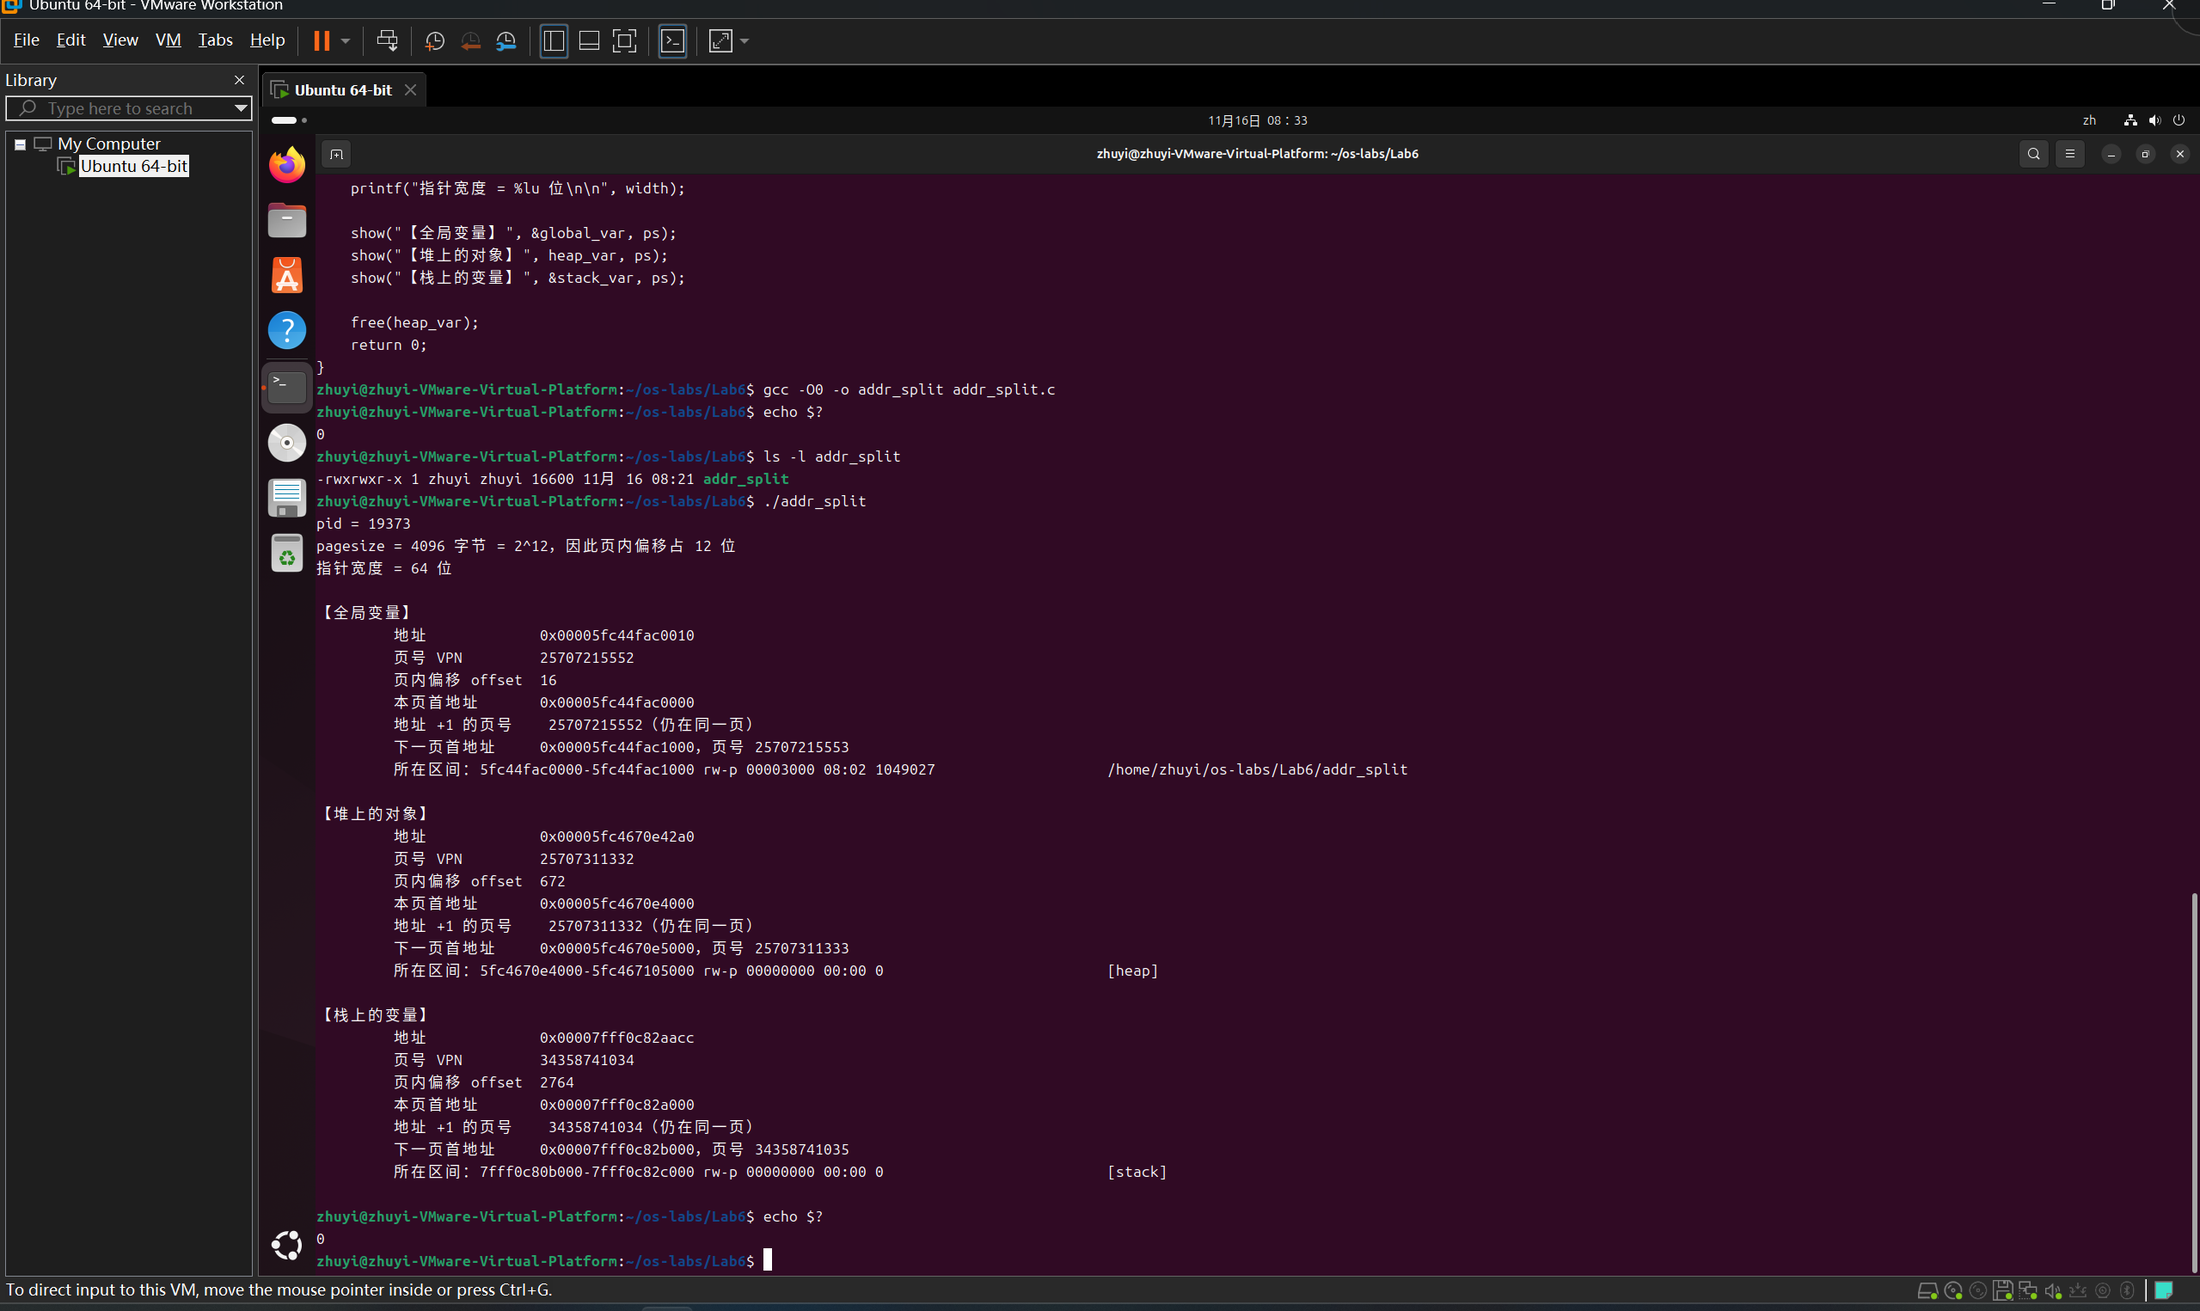
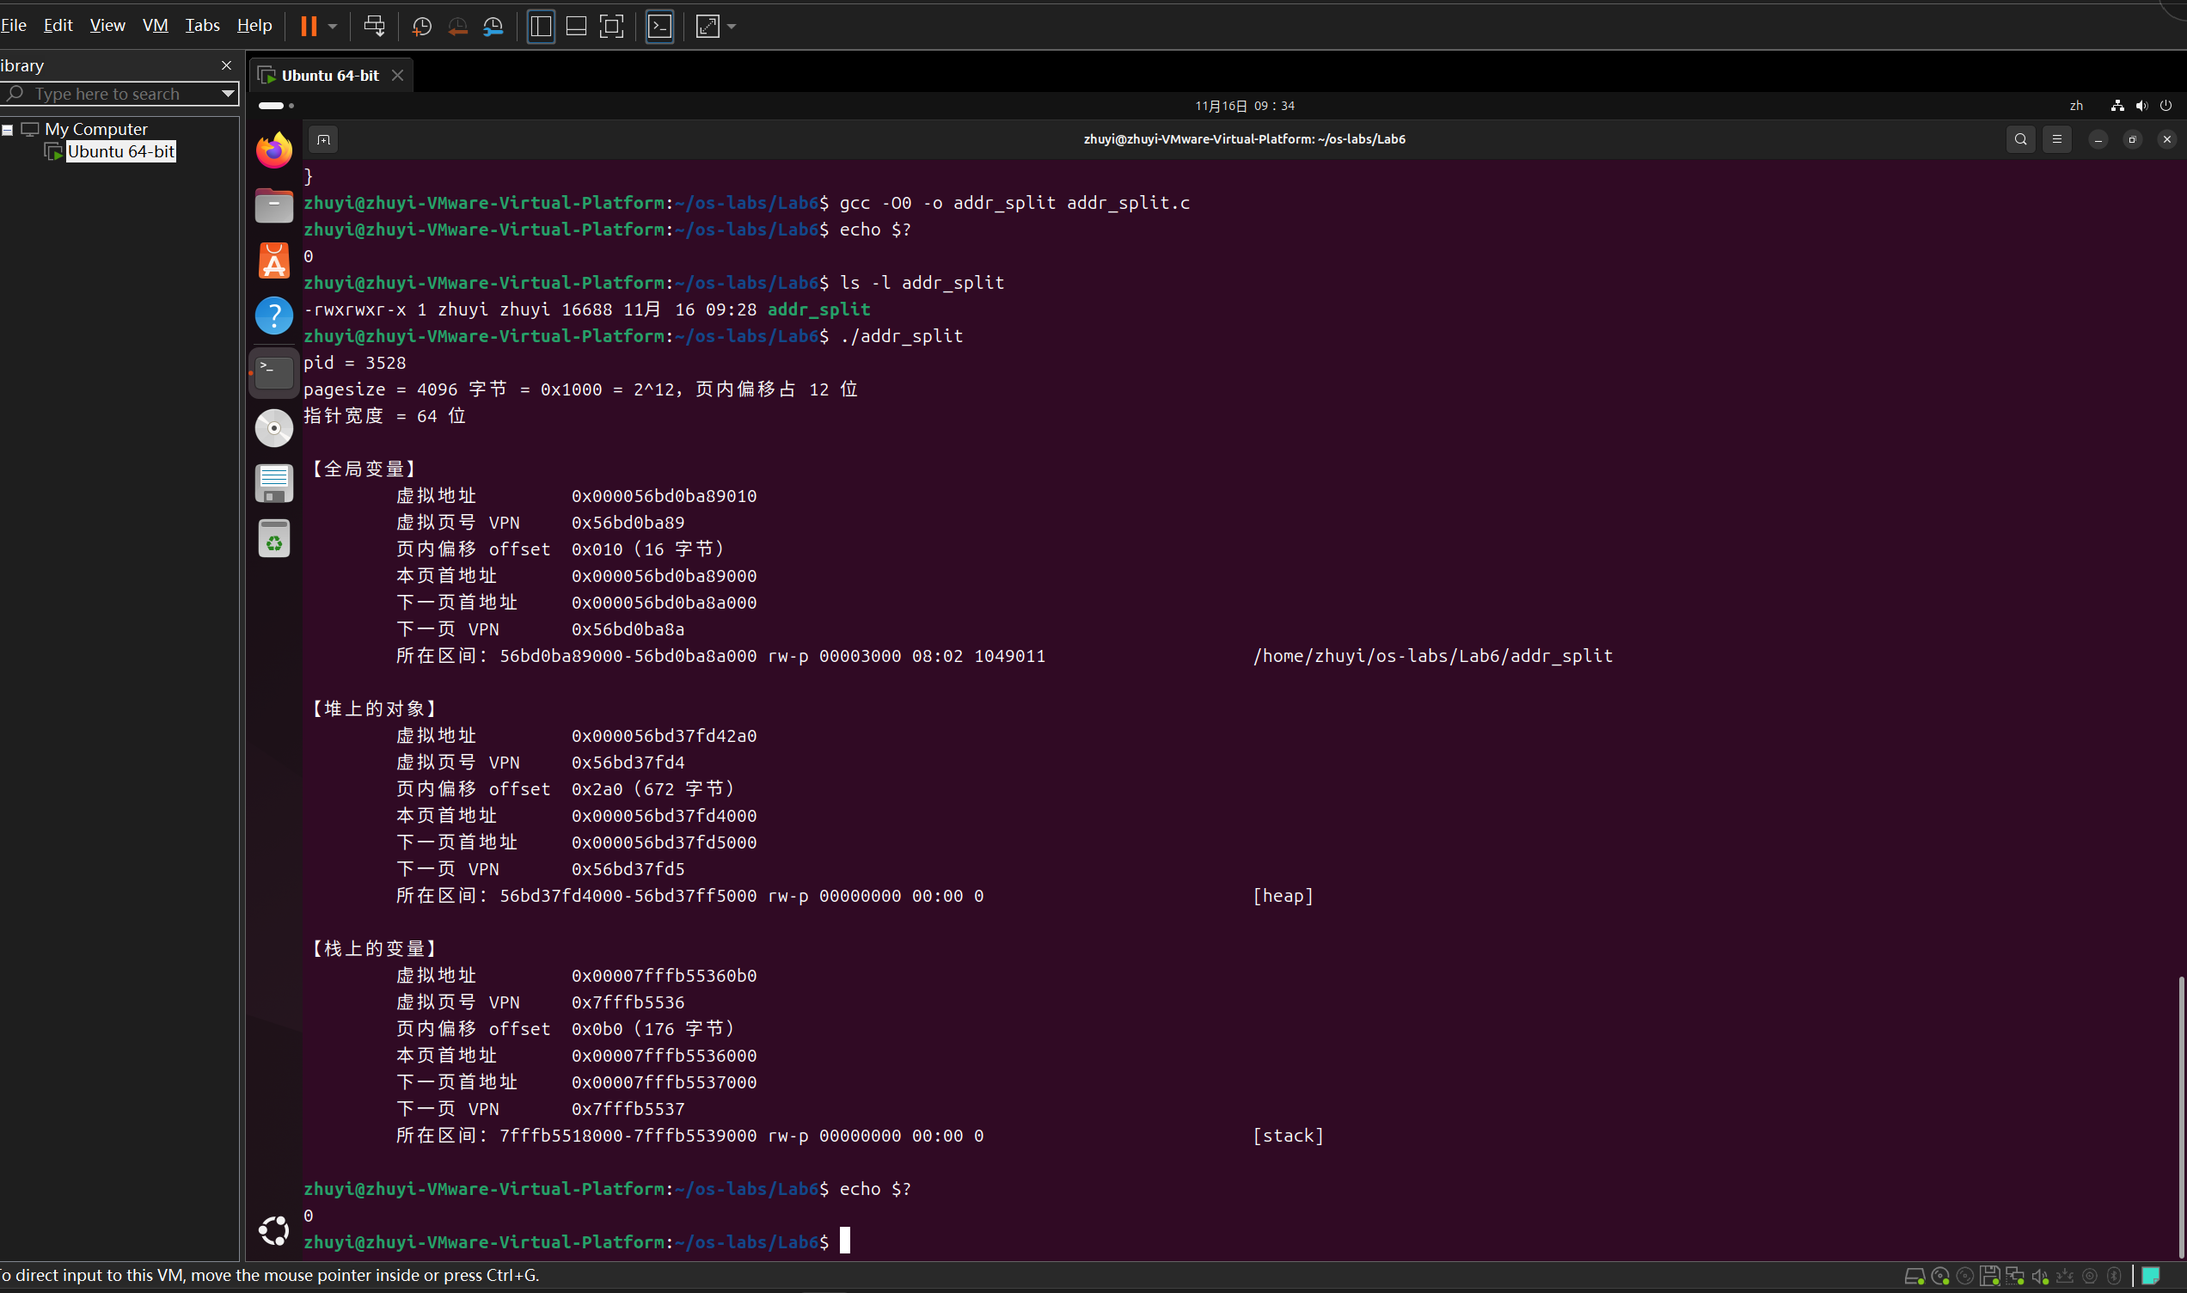
完成Lab6作业

diff --git a/2026333034朱怡/Lab6/Lab6.md b/2026333034朱怡/Lab6/Lab6.md
@@ -16,14 +16,7 @@
 
 ### 1.1 虚拟页号与页内偏移
 
-虚拟地址空间按固定大小划分为页，各页从 0 开始编号。一个虚拟地址由以下两部分确定：
-
-| 名称 | 记号 | 含义 |
-| :--- | :--- | :--- |
-| 虚拟页号 | VPN | 标识该地址属于哪个虚拟页 |
-| 页内偏移 | offset | 该地址相对于所属页起始地址的字节距离 |
-
-设虚拟地址为 `addr`，页大小为 `ps`：
+虚拟地址空间以页为单位划分。一个虚拟地址由**虚拟页号（VPN）**和**页内偏移（offset）**共同确定。设虚拟地址为 `addr`、页大小为 `ps`：
 
 ```text
 VPN    = addr ÷ ps 的整数商
@@ -31,44 +24,22 @@ offset = addr 除以 ps 的余数
 addr   = VPN × ps + offset
 ```
 
-例如，页大小为 4096 字节，虚拟地址为 4102：
+例如，页大小为 4096 字节，地址为 4102，则 `4102 = 1 × 4096 + 6`，VPN 为 1、偏移为 6 字节。
+
+### 1.2 为什么使用十六进制
+
+本实验使用的 Linux 通常采用 **4 KiB 页**，即 `4096 = 0x1000 = 2¹²` 字节。页内偏移占低 12 位，对应**末尾 3 位十六进制数字**；其余高位对应 VPN。
 
 ```text
-4102 = 1 × 4096 + 6
-VPN = 1，offset = 6
+虚拟地址：0x000055d0a1b2c010
+虚拟页号：0x55d0a1b2c     ← 去掉末尾 3 位
+页内偏移：0x010           ← 保留末尾 3 位（16 字节）
+本页首址：0x000055d0a1b2c000 ← 末尾 3 位置零
 ```
 
-这表示地址 4102 属于虚拟页 1，距离该页起始地址 6 字节。
+因此，地址、VPN 和页首地址用**十六进制**表示更便于观察；偏移用十六进制表示，并附带十进制字节数。程序会自动显示实际页大小，**只有页大小为 4096 字节时才能直接按末尾 3 位拆分**；其他页大小应根据实际位数或使用上面的除法与取余计算。
 
-### 1.2 页边界
-
-4 KiB 等于 4096 字节。采用该页大小时，前三个虚拟页的地址范围如下，区间两端均包含在内：
-
-| VPN | 虚拟地址范围（十进制） |
-| :---: | :--- |
-| 0 | 0～4095 |
-| 1 | 4096～8191 |
-| 2 | 8192～12287 |
-
-余数小于除数，因此页内偏移满足：
-
-```text
-0 ≤ offset < ps
-```
-
-4 KiB 页的偏移范围是 0～4095。由于 `4096 = 2¹²`，偏移占 12 个二进制位。程序会自动显示本机页大小与偏移位数，无需手工拆解二进制地址。
-
-地址增加 1 时，是否跨页取决于原偏移：
-
-- 原偏移小于 `ps − 1`：VPN 不变，偏移增加 1。
-- 原偏移等于 `ps − 1`：VPN 增加 1，偏移变为 0。
-
-例如，地址 4095 的 VPN 为 0、偏移为 4095；地址 4096 的 VPN 为 1、偏移为 0。以下两个公式用于定位当前页与下一页的起点：
-
-```text
-本页首地址   = addr − offset
-下一页首地址 = 本页首地址 + ps
-```
+页内偏移总满足 `0 ≤ offset < ps`。页大小为 4096 时，范围为 `0x000～0xfff`（即 0～4095 字节）。本页首地址为 `addr − offset`，下一页首地址为 `本页首地址 + ps`。地址增加 1 字节是否跨页，取决于当前偏移是否已到该页末尾。
 
 ### 1.3 页与内存映射区间
 
@@ -263,152 +234,85 @@ echo $?
 
 正常退出状态应为 `0`。保留本次输出，后续表格与截图统一使用这次运行的数据。重新运行时地址可能变化，不应混合不同运行的记录。
 
-### 步骤 7：按字段读取输出
+### 步骤 7：读取输出并完成实验记录
 
-以下内容仅为**教学示例**，用于说明格式和读取方法，不作为学生实测记录：
+在步骤 1 建立的本机 `Lab6.md` 中填写本节表格和问题。以下是一组**教学示例**，展示如何读取程序输出，**不得代替本人实测结果**。实际地址每次运行可能不同。
 
 ```text
 pid = 5312
-pagesize = 4096 字节 = 2^12，因此页内偏移占 12 位
+pagesize = 4096 字节 = 0x1000 = 2^12，页内偏移占 12 位
 指针宽度 = 64 位
 
 【全局变量】
-         地址             0x000055d0a1b2c010
-         页号 VPN         23035779884
-         页内偏移 offset  16
+         虚拟地址         0x000055d0a1b2c010
+         虚拟页号 VPN     0x55d0a1b2c
+         页内偏移 offset  0x010（16 字节）
          本页首地址       0x000055d0a1b2c000
-         地址 +1 的页号    23035779884（仍在同一页）
-         下一页首地址     0x000055d0a1b2d000，页号 23035779885
+         下一页首地址     0x000055d0a1b2d000
+         下一页 VPN       0x55d0a1b2d
          所在区间：55d0a1b2c000-55d0a1b2d000 rw-p 00001000 08:01 1234567 /home/student/os-labs/Lab6/addr_split
 
 【堆上的对象】
-         地址             0x000055d0a3e4f2a0
-         页号 VPN         23035788879
-         页内偏移 offset  672
+         虚拟地址         0x000055d0a3e4f2a0
+         虚拟页号 VPN     0x55d0a3e4f
+         页内偏移 offset  0x2a0（672 字节）
          本页首地址       0x000055d0a3e4f000
-         地址 +1 的页号    23035788879（仍在同一页）
-         下一页首地址     0x000055d0a3e50000，页号 23035788880
+         下一页首地址     0x000055d0a3e50000
+         下一页 VPN       0x55d0a3e50
          所在区间：55d0a3e4f000-55d0a3e70000 rw-p 00000000 00:00 0 [heap]
 
 【栈上的变量】
-         地址             0x00007ffd3c2a4b2c
-         页号 VPN         34356839076
-         页内偏移 offset  2860
+         虚拟地址         0x00007ffd3c2a4b2c
+         虚拟页号 VPN     0x7ffd3c2a4
+         页内偏移 offset  0xb2c（2860 字节）
          本页首地址       0x00007ffd3c2a4000
-         地址 +1 的页号    34356839076（仍在同一页）
-         下一页首地址     0x00007ffd3c2a5000，页号 34356839077
+         下一页首地址     0x00007ffd3c2a5000
+         下一页 VPN       0x7ffd3c2a5
          所在区间：7ffd3c286000-7ffd3c2a7000 rw-p 00000000 00:00 0 [stack]
 ```
 
-以上示例包含程序输出的环境信息和三个对象的完整记录。各段字段顺序相同，按以下顺序阅读：
+**读法提示：**每个对象从其标题读到下一对象标题之前；`0x` 表示十六进制，`pagesize` 是页大小（字节）。以示例全局变量为例，`0x...c010` 的末三位 `010` 为偏移，高位 `0x55d0a1b2c` 为 VPN；对应页首地址以 `000` 结尾。`所在区间` 取自 `/proc/self/maps`，其起止地址通常不带 `0x`，依然是十六进制。`rw-p` 表示可读、可写、不可执行及私有映射。
 
-1. **读取页大小。** `pagesize` 后的数值是后续判断使用的 `ps`。示例为 4096 字节，实际记录采用本人输出。
-2. **区分地址与值。** “地址”一行是对象的虚拟地址，不是变量中保存的 1、2 或 3；以 `0x` 开头表示十六进制。
-3. **读取 VPN 与偏移。** 两行均为十进制数。示例中三个偏移分别为 16、672、2860，均满足 `0 ≤ offset < 4096`。完整地址可以原样复制，无需手工转换为十进制。
-4. **核对页边界。** 示例全局变量的下一页 VPN 为 `23035779885`，比当前 VPN `23035779884` 大 1；堆对象和栈变量也满足这一关系。三个对象的“地址 +1”仍在同一页，是因为原偏移均未达到页末；不能据此推断所有地址增加 1 都不跨页。
-5. **识别映射区间。** “所在区间”由程序自动匹配，不需要在 maps 中搜索变量名。全局变量通常对应 `addr_split` 文件的可写映射，堆对象通常对应 `[heap]`，栈变量通常对应 `[stack]`；具体路径与标签以实际输出为准。
-
-示例全局变量的地址减去偏移 16，即得到本页首地址 `0x000055d0a1b2c000`，其映射区间恰好也从此处开始。栈变量所在页的首地址为 `0x00007ffd3c2a4000`，而栈映射区间从 `0x00007ffd3c286000` 开始，说明一个映射区间可以包含多个页，区间起点与对象所在页的首地址不一定相同。
-
-maps 中的地址通常不带 `0x`，与程序打印地址的数值表示一致。权限串 `rw-p` 分别表示可读、可写、不可执行、私有映射。设备号、inode 和文件偏移仅作输出信息保留，本次不要求解释。
-
-### 步骤 8：填写实验记录并核对
-
-在步骤 1 创建的本机报告中填写以下表格。
-
-**运行信息：**
+**A. 运行信息（本人实测）**
 
 | 项目 | 本人实测结果 |
 | :--- | :--- |
-| Ubuntu 实验目录完整路径（步骤 2 或 4 的 `pwd` 输出） | |
+| Ubuntu 实验目录完整路径（`pwd`） | |
 | 编译退出状态（步骤 5 的 `echo $?`） | |
 | 运行退出状态（步骤 6 的 `echo $?`） | |
-| 页大小，单位为字节（`pagesize`） | |
+| 页大小（字节，`pagesize`） | |
 
-**地址分解结果：填写方法**
+**B. 地址分解记录（本人同一次运行）**
 
-表格的一行对应一个对象，三个数据列分别对应程序输出中的三个字段。按以下步骤填写。
+直接按三段输出填写；虚拟地址、VPN 和 offset 都保留 `0x` 前缀，offset **只填写十六进制部分**，不要复制括号中的十进制值。
 
-**1. 确定输出段与表格行的对应关系。**
-
-- `【全局变量】` 下的字段填写到“全局变量”行。
-- `【堆上的对象】` 下的字段填写到“堆上的对象”行。
-- `【栈上的变量】` 下的字段填写到“栈上的变量”行。
-
-每段从对象名称开始，到下一个对象名称之前结束。填写某一行时，三个数值必须取自同一段输出。
-
-**2. 按列提取字段。** 以步骤 7 的全局变量教学示例为例：
-
-| 报告中的列 | 对应的输出行 | 该列填写内容 | 填写要求 |
-| :--- | :--- | :--- | :--- |
-| 完整虚拟地址 | `地址 0x000055d0a1b2c010` | `0x000055d0a1b2c010` | 保留完整地址及 `0x` 前缀，不填“本页首地址”或 maps 区间起点 |
-| 页号 VPN | `页号 VPN 23035779884` | `23035779884` | 复制当前对象的页号，不填“地址 +1 的页号”或“下一页首地址”后的页号 |
-| 页内偏移 offset | `页内偏移 offset 16` | `16` | 复制偏移数值，不填页大小 `4096` 或偏移位数 `12` |
-
-记录字段右侧的数值即可。虚拟地址来自对象对应的“地址”行；VPN 与 offset 是程序根据该地址和 `pagesize` 计算的结果，其计算方法如下。
-
-**3. 根据地址与页大小计算 VPN 和偏移。**
-
-从输出顶部的 `pagesize` 获取页大小 `ps`，从当前对象的“地址”行获取虚拟地址 `addr`。计算关系为：
-
-```text
-VPN    = addr ÷ ps 的整数商
-offset = addr − VPN × ps
-```
-
-其中 offset 也是 `addr` 除以 `ps` 的余数。计算后用 `VPN × ps + offset = addr` 核对，并检查 `0 ≤ offset < ps`。
-
-对于示例中的 4096 字节页，`4096 = 0x1000 = 2¹²`，恰好对应三位十六进制数字。因此，可将地址的末三位作为偏移，其余高位作为 VPN：
-
-```text
-全局变量虚拟地址：0x000055d0a1b2c010
-
-VPN 的十六进制表示：0x000055d0a1b2c
-VPN 的十进制表示：  23035779884
-
-offset 的十六进制表示：0x010
-offset 的十进制表示：  16
-
-核对：23035779884 × 4096 + 16 = 0x000055d0a1b2c010
-```
-
-十六进制与十进制之间的转换可使用计算器的程序员模式。其余两个示例对象的偏移计算为：
-
-- 堆对象地址末三位为 `2a0`：`0x2a0 = 2 × 16² + 10 × 16 = 672`。
-- 栈变量地址末三位为 `b2c`：`0xb2c = 11 × 16² + 2 × 16 + 12 = 2860`。
-
-“末三位为偏移”仅适用于 4096 字节页。实测页大小不同时，应采用通用的整数除法与取余公式。报告可直接记录程序输出的计算结果，上述方法用于理解和核对数值来源。
-
-**4. 对照完整填写示例。** 根据步骤 7 的三段教学输出，填写结果如下。此表仅用于展示对应关系，学生实测数据填写在后面的空表中。
-
-| 对象 | 完整虚拟地址 | 页号 VPN | 页内偏移 offset |
-| :--- | :--- | :--- | :--- |
-| 全局变量 | `0x000055d0a1b2c010` | 23035779884 | 16 |
-| 堆上的对象 | `0x000055d0a3e4f2a0` | 23035788879 | 672 |
-| 栈上的变量 | `0x00007ffd3c2a4b2c` | 34356839076 | 2860 |
-
-**地址分解结果：本人实测记录**
-
-下表是需要填写的记录表。三个对象的数据均取自本人同一次运行，不使用上面的教学示例数值代替实测结果。
-
-| 对象 | 完整虚拟地址 | 页号 VPN | 页内偏移 offset |
+| 对象 | 完整虚拟地址（十六进制） | VPN（十六进制） | offset（十六进制） |
 | :--- | :--- | :--- | :--- |
 | 全局变量 | | | |
 | 堆上的对象 | | | |
 | 栈上的变量 | | | |
 
-**结果核对：**使用本次输出完成以下两项，不要求计算物理地址或不同对象之间的地址距离。
+**C. 核对与分析（需要填写答案，不只复制程序输出）**
 
-| 核对项目 | 结果与依据 |
-| :--- | :--- |
-| 三个对象的偏移是否均在 `0 ≤ offset < ps` 范围内 | 填写“是”或“否”，并列出由页大小确定的偏移范围及三个实测偏移值： |
-| 全局变量的“下一页首地址”对应 VPN 是否等于当前 VPN 加 1 | 填写“是”或“否”，并列出这两个实测 VPN： |
+1. **偏移范围核对：**根据本人实测的 `pagesize`，写出 offset 的允许范围（十六进制），列出三个对象的实测 offset，并判断是否全部符合。
 
-核对方法：页大小为 `ps` 时，偏移允许范围为 `0～ps−1`；第二项只比较程序已经打印的两个十进制页号，无需计算长十六进制地址。若不符合关系，先核对是否抄错字段或混用了两次运行，保留实际结果并注明原因。
+   答：
 
-其他输出仅用于阅读与截图，不要求另抄映射区间、指针宽度或填写额外分析题。
+2. **页边界计算：**假设页大小为 `4096 = 0x1000` 字节，某地址的 VPN 为 `0x2a`、offset 为 `0xfff`（4095 字节）。该地址增加 **1 字节**后，新的 VPN 和 offset 分别是多少（均写十六进制）？写出计算过程并说明是否跨页。**本题不直接抄程序结果。**
 
-### 步骤 9：保存运行截图
+   答：
+
+3. **所在页与映射区间：**从本人**栈变量**的输出中，记录“本页首地址”，再从 `所在区间` 的 `起点-终点` 中取出“映射区间起点”（二者都写十六进制）。两者是否相同？结合结果说明一个 maps 映射区间与一个虚拟页之间的关系。
+
+   本页首地址：
+
+   映射区间起点：
+
+   是否相同及说明：
+
+注意：maps 区间左端包含、右端不包含；区间起点**不一定**等于栈变量所在页的首地址。若结果与预期不同，应保留真实输出并分析，不要照抄教学示例。无需计算物理地址。
+
+### 步骤 8：保存运行截图
 
 截图文件名为 `imgs/lab6_split.png`，保存于本机报告同级的 `imgs` 文件夹。
 
@@ -479,8 +383,8 @@ TLB 缓存地址转换结果。命中时可以复用转换；在课程使用的 
 
 提交前核对：
 
-- 步骤 8 的运行信息、三个对象的地址分解结果及两项核对均已填写。
-- 报告采用本人实测数据，与步骤 9 的截图对应同一次运行。
+- 步骤 7 的运行信息、三个对象的地址分解记录及三道分析题均已填写。
+- 报告采用本人实测数据，与步骤 8 的截图对应同一次运行。
 - 图片在 Markdown 预览中显示正常，命令与输出清晰可读，未使用手机拍屏或他人截图。
 - 报告保留模板正文、表格与图片引用，选读不要求作答。
 - 源码、可执行文件与其他运行材料留在 Ubuntu 实验目录，不增加提交文件。
